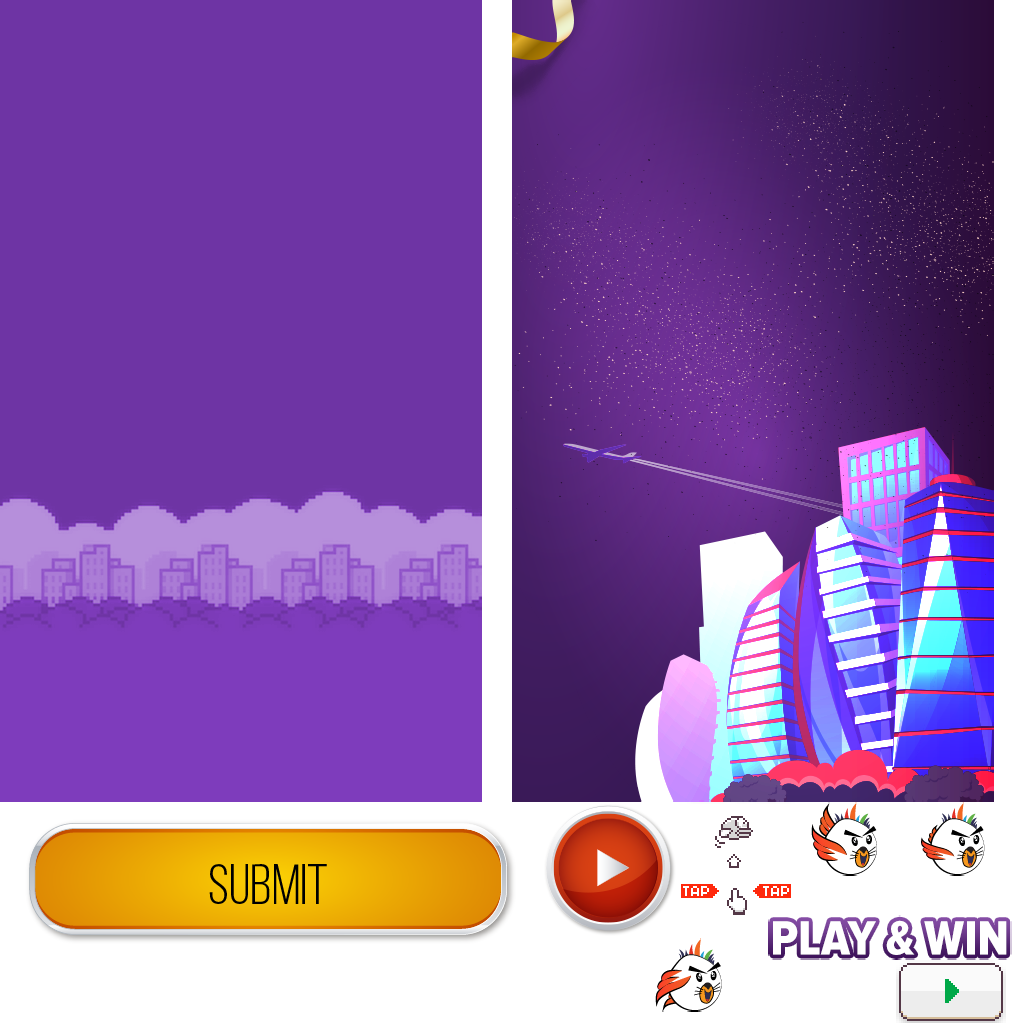
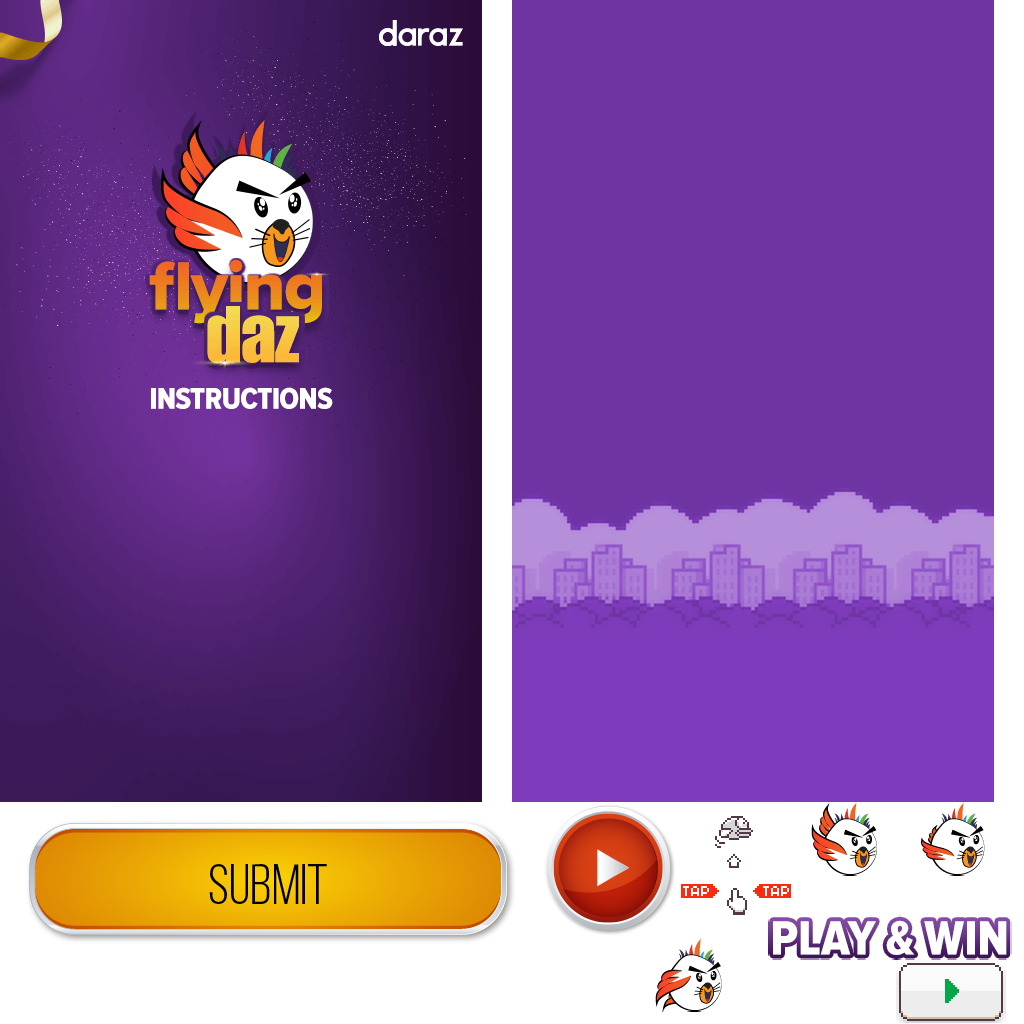
test final

diff --git a/flying-daz/data.js b/flying-daz/data.js
@@ -1,1 +1,1 @@
-{"project":["Flying Daz","Menu",[[0,false,true,true,true,true,true,true,true,false],[1,false,true,true,true,false,false,false,false,false],[3,true,false,false,false,false,false,false,false,false],[4,false,true,true,true,true,true,true,true,true],[5,false,true,true,true,true,true,true,true,false],[7,true,false,false,false,false,false,false,false,false],[8,true,false,false,false,false,false,false,false,false],[9,true,false,false,false,false,false,false,false,false],[10,false,true,true,true,false,false,false,false,false]],[["Sprite",0,false,[],0,0,null,[["Default",5,false,1,0,false,1393132005821332,[["images/shared-0-sheet1.png",584793,513,1,480,800,1,0.5,0.5,[],[-0.5,-0.5,0,-0.5,0.4979166666666667,-0.5,0.4979166666666667,0,0.4979166666666667,0.49875,0,0.49875,-0.5,0.49875,-0.5,0],0]]]],[],false,true,4964123340204649,[],null],["Sprite2",0,false,[],0,0,null,[["Default",5,false,1,0,false,5423385207864809,[["images/shared-0-sheet0.png",493578,897,961,108,61,1,0.5,0.508197,[],[-0.4444444,-0.40983630000000004,0,-0.4754101,0.44444399999999995,-0.40983630000000004,0.48148100000000005,-0.01639400000000002,0.453704,0.409836,0,0.47541,-0.4537037,0.409836,-0.4814815,-0.01639400000000002],0]]]],[],false,false,561258163338029,[],null],["Button2",1,false,[],0,0,null,null,[],false,false,2574843507174612,[],null],["Sprite3",0,false,[],0,0,null,[["Default",5,false,1,0,false,8356031828295757,[["images/shared-0-sheet0.png",493578,679,803,115,111,1,0.504348,0.504505,[],[-0.191305,-0.18018099999999998,-0.008696000000000037,-0.38738799999999995,0.017390999999999934,-0.009009999999999962,0.017390999999999934,-0.009009999999999962,0.37391299999999994,0.36936900000000006,-0.008696000000000037,0.495495,-0.38260900000000003,0.36936900000000006,-0.06956500000000004,-0.009009999999999962],0]]]],[],false,false,9533404973379886,[],null],["Sprite4",0,false,[],0,0,null,[["Default",5,false,1,0,false,6430424900520584,[["images/shared-0-sheet0.png",493578,1,1,480,800,1,0.5,0.500978,[],[-0.5,-0.500978,0,-0.500978,0.4979166666666667,-0.500978,0.4979166666666667,-0.0009780000000000344,0.4979166666666667,0.497772,0,0.497772,-0.5,0.497772,-0.5,-0.0009780000000000344],0]]]],[],false,false,576234191087211,[],null],["Sprite5",0,false,[],1,0,null,[["Default",10,false,1,0,false,5552198826423713,[["images/shared-0-sheet0.png",493578,796,803,103,72,1,0.5,0.5,[],[-0.21383512244897962,-0.3616071428571428,0.08928571428571452,-0.3511904761904762,0.2699575714285716,-0.04910714285714307,0.2728086530612246,0.27157738095238126,0.1195978979591843,0.48214252380952394,-0.08418367346938738,0.49627976190476186,-0.3568427959183674,0.11383895238095276,-0.346938775510204,-0.17485119047619024],0],["images/shared-0-sheet0.png",493578,901,803,103,72,1,0.5,0.5,[],[-0.16791675510204096,-0.19791666666666674,0.09948979591836726,-0.4107142857142857,0.25720246938775515,-0.2723214285714285,0.31362497959183666,0.141369047619048,0.25480197959183737,0.37797585714285675,0.04336734693877475,0.5,-0.19867953061224491,0.34821395238095243,-0.34183673469387754,-0.01860119047619041],0],["images/shared-0-sheet0.png",493578,641,939,103,72,1,0.5,0.5,[],[-0.12454940816326543,-0.3132440476190475,0.03826530612244905,-0.40327380952380953,0.2674065510204082,-0.1830357142857144,0.2753596734693883,0.30877976190476253,0.13235300000000083,0.4784222857142858,-0.19185902516346326,0.4107142857142859,-0.37484996938775506,0.1450896190476193,-0.2702581326530612,-0.07068452380952356],0]]]],[["Platform",2,1593079543931459]],false,false,8880592809369787,[],null],["Mouse",3,false,[],0,0,null,null,[],false,false,4336291366746725,[],null,[]],["Sprite6",0,false,[6617839752655299],0,0,null,[["Default",5,false,1,0,false,1423263038755727,[["images/shared-0-sheet2.png",116318,543,1,104,640,1,0.508772,0.501538,[],[-0.508772,-0.501538,0.491228,-0.501538,0.44509146153846146,0.49787275,-0.017544000000000004,0.49846199999999996,-0.4571103923076923,0.492842625],0]]]],[],false,false,7213654666255091,[],null],["Sprite7",0,false,[],0,0,null,[["Default",5,false,1,0,false,2610034895066063,[["images/shared-0-sheet2.png",116318,649,1,104,640,1,0.5,0.501538,[],[-0.47081045384615383,-0.501538,0.45879092307692304,-0.501538,0.5,0.49846199999999996,-0.5,0.49621424999999997],0]]]],[],false,false,6358373644877836,[],null],["TiledBackground",4,false,[],0,0,["images/tiledbackground-sheet0.png",4223,0,0,0,337,17],null,[],false,false,8862384049867816,[],null],["TiledBackground2",4,false,[],0,0,["images/tiledbackground2-sheet0.png",4223,0,0,0,337,17],null,[],false,false,2397778750218094,[],null],["TiledBackground3",4,false,[],0,0,["images/tiledbackground3-sheet0.png",192,0,0,0,56,28],null,[],false,false,8923451967422283,[],null],["TiledBackground4",4,false,[],0,0,["images/tiledbackground4-sheet0.png",430,0,0,0,41,19],null,[],false,false,2934423813765071,[],null],["Text",5,false,[],0,0,null,null,[],false,false,5606101963679141,[],null],["Sprite8",0,false,[],0,0,null,[["Default",5,false,1,0,false,7712839185583907,[["images/shared-0-sheet2.png",116318,257,769,250,250,1,0.5,0.5,[],[],0]]]],[],false,false,5867399459174119,[],null],["Sprite9",0,false,[],1,0,null,[["Default",5,false,1,0,false,632513710534152,[["images/shared-0-sheet0.png",493578,543,803,134,134,1,0.5,0.503311,[],[-0.36666699999999997,-0.344371,0,-0.49668847999999993,0.37222200000000005,-0.35099299999999994,0.488889,-0.006621999999999961,0.3337481492537311,0.3343999402985074,0.004664179104477584,0.44801426865671645,-0.349523328358209,0.305667328358209,-0.49444444,-0.006621999999999961],0]]]],[["DragDrop",6,559007665408358]],false,true,336497991114589,[],null],["Touch",7,false,[],0,0,null,null,[],false,false,812771115847554,[],null,[true]],["Browser",8,false,[],0,0,null,null,[],false,false,968786528415499,[],null,[]],["Sprite10",0,false,[],0,0,null,[["Animation 1",5,false,1,0,false,998012637433276,[["images/shared-0-sheet2.png",116318,755,513,256,256,1,0.5,0.5,[],[-0.03125,-0.03125,0,-0.046875,0.046875,-0.05078125,0.4296875,0,0.015625,0.015625,0,0.1328125,-0.14453125,0.140625,-0.4453125,0],0]]]],[],false,false,596976730625195,[],null],["AJAX",9,false,[],0,0,null,null,[],false,false,525835348000193,[],null,[]],["Sprite11",0,false,[],0,0,null,[["Animation 1",5,false,1,0,false,259953315795058,[["images/shared-0-sheet0.png",493578,513,1,480,800,1,0.5,0.5,[],[-0.5,-0.5,0,-0.5,0.49750000000000005,-0.5,0.49750000000000005,0,0.49750000000000005,0.498,0,0.498,-0.5,0.498,-0.5,0],0]]]],[],false,false,387558426248170,[],null],["NameInput",10,false,[],0,0,null,null,[],false,false,889300060393533,[],null],["EmailInput",10,false,[],0,0,null,null,[],false,false,800542948052933,[],null],["PhoneInput",10,false,[],0,0,null,null,[],false,false,139598997962273,[],null],["NameText",5,false,[],0,0,null,null,[],false,false,335254482292807,[],null],["EmailText",5,false,[],0,0,null,null,[],false,false,346951033053218,[],null],["Text2",5,false,[],0,0,null,null,[],false,false,646911176194777,[],null],["Sprite12",0,false,[],0,0,null,[["Animation 1",5,false,1,0,false,591142330811460,[["images/shared-0-sheet0.png",493578,1,803,540,158,1,0.5,0.5,[],[-0.4073182779369861,-0.34398155758915255,-0.006944444444444586,-0.34968354430379744,0.40504037360896816,-0.33736780097539587,0.4352220956719819,0.05537974683544311,0.3859058156639268,0.3355084905717818,-0.01892921146953408,0.32007157165385014,-0.4054701596574163,0.3288947339580254,-0.45370370370370366,-0.06329113924050628],0]]]],[],false,false,367115732379633,[],null],["Confirmation",5,false,[],0,0,null,null,[],false,false,968940184656449,[],null],["Sprite13",0,false,[],0,0,null,[["Animation 1",5,false,1,0,false,904992826225042,[["images/shared-0-sheet1.png",584793,1,803,540,158,1,0.5,0.5,[],[-0.40880451457374534,-0.36416139240506323,0,-0.375,0.3883478522901602,-0.37739319620253164,0.4394039009423626,0,0.4037776682007451,0.31787974683544307,-0.004629629629629595,0.3491297468354432,-0.3968469208853824,0.3343354430379749,-0.4535598838483454,0.04746835443038],0]]]],[],false,false,505255774339353,[],null],["Sprite14",0,false,[],0,0,null,[["Animation 1",5,false,1,0,false,405608823074264,[["images/shared-0-sheet2.png",116318,1,513,540,158,1,0.5,0.5,[],[-0.41439636752136755,-0.3904449272624221,-0.009259259259259245,-0.38964985200579383,0.40495904558404594,-0.37676333522262107,0.44444444444444464,0,0.3865295584045586,0.3394499023868003,-0.02083333333333337,0.3369623401977454,-0.4029113247863248,0.33641129794067637,-0.46456552706552706,-0.015822784810126556],0]]]],[],false,false,547625119326240,[],null],["Sprite15",0,false,[],0,0,null,[["Animation 1",5,false,1,0,false,518076908544604,[["images/shared-0-sheet1.png",584793,1,1,480,800,1,0.5,0.5,[],[-0.5,-0.5,0,-0.5,0.4979166666666667,-0.5,0.4979166666666667,0,0.4979166666666667,0.49875,0,0.49875,-0.5,0.49875,-0.5,0],0]]]],[],false,false,921497973235513,[],null],["Sprite16",0,false,[],0,0,null,[["Animation 1",5,false,1,0,false,781584850527997,[["images/shared-0-sheet0.png",493578,769,916,242,43,1,0.5,0.5,[],[-0.49173553719008267,-0.4534883720930233,0,-0.4069767441860465,0.487603305785124,-0.4534883720930233,0.49586776859504134,0,0.487603305785124,0.43023255813953487,0,0.4534883720930233,-0.49586776859504134,0.4534883720930233,-0.5,0],0]]]],[],false,true,642240991751007,[],null],["Instructions",5,false,[],0,0,null,null,[],false,true,807218672933255,[],null],["Display",5,false,[],0,0,null,null,[],false,false,855406720276929,[],null]],[],[["Menu",480,800,false,"Event sheet 1",813435304774142,[["Layer 0",0,4928235318697103,true,[255,255,255],false,1,1,1,false,false,1,0,0,[[[240,401,0,478,800,0,0,1,0.5,0.5,0,0,[]],0,0,[],[],[true,"Default",0,true]],[[244,667,0,134,134,0,0,1,0.5,0.503311,0,0,[]],15,11,[],[[0,true]],[true,"Default",0,true]],[[248,554,0,242,43,0,0,1,0.5,0.5,0,0,[]],32,2,[],[],[true,"Animation 1",0,true]],[[61,402,0,372,116,0,0,1,0,0,0,0,[]],33,14,[],[],["1. Make Daz jump by tapping on the screen.\n2. Fly through the pillars and get the highest score.\n3. Be the 1st scorer and win a Samsung 40inch TV.\n4. Be the 2nd scorer and win a Redmi Note 6.",false,"Arial",12,0,false,false,[1,1,1],0,1,0,true,0]]],[]]],[],[]],["Game",480,800,false,"Event sheet 2",7054034641972203,[["Layer 0",0,360173619558835,true,[255,255,255],false,1,1,1,false,false,1,0,0,[[[239.5,400,0,488,797,0,0,1,0.5,0.500978,0,0,[]],4,3,[],[],[true,"Default",0,true]],[[112,340,0,83.56229072527051,59.21386573416339,0,0,1,0.5,0.5,0,0,[]],5,4,[],[[0,1500,1500,650,1500,1000,false,0,true,true]],[true,"Default",0,true]],[[-91,765,0,639,32,0,0,1,0,0,0,0,[]],11,9,[],[],[true,0,0,0,1,1,0]],[[566.999938965,741.895385742,0,74,680,0,0,1,0.508772,0.501538,0,0,[]],7,6,[[0]],[],[true,"Default",0,true]],[[-107,1,0,727,17,0,0,1,0,0,0,0,[]],12,8,[],[],[true,0,0,0,1,1,0]],[[-59,10.750762939,0,73,477,0,0,1,0.5,0.501538,0,0,[]],8,7,[],[],[true,"Default",0,true]],[[25,41,0,52,66,0,0,1,0,0,0,0,[]],13,10,[],[],["0",false,"Arial",25.799999999999997,0,false,false,[1,1,0.8],0,0,0,true,0]]],[]]],[],[]],["Final",480,800,false,"Event sheet 3",620830751206250,[["Layer 0",0,395103375760716,true,[255,255,255],false,1,1,1,false,false,1,0,0,[[[240.5,399.5,0,488,801,0,0,1,0.5,0.5,0,0,[]],20,16,[],[],[true,"Animation 1",0,true]],[[157,122,0,257,32,0,0,1,0,0,0,0,[]],21,17,[],[],["","","",true,true,false,false,0,true,""]],[[157,178,0,257,32,0,0,1,0,0,0,0,[]],22,18,[],[],["","","",true,true,false,false,0,true,""]],[[157,232,0,257,32,0,0,1,0,0,0,0,[]],23,19,[],[],["","","",true,true,false,false,0,true,""]],[[74,127,0,61,30,0,0,1,0,0,0,0,[]],24,20,[],[],["NAME",false,"Arial",15,0,false,false,[1,1,1],0,1,0,true,0]],[[77,182,0,68,30,0,0,1,0,0,0,0,[]],25,21,[],[],["EMAIL",false,"Arial",15,0,false,false,[1,1,1],0,1,0,true,0]],[[66,236,0,75,30,0,0,1,0,0,0,0,[]],26,22,[],[],["PHONE",false,"Arial",15,0,false,false,[1,1,1],0,1,0,true,0]],[[259,628,0,213,57,0,0,1,0.5,0.5,0,0,[]],27,23,[],[],[false,"Animation 1",0,true]],[[105,324,0,282,83,0,0,1,0,0,0,0,[]],28,24,[],[],["Score has been Added!!\nThank you for your Participation!\nStay Tuned with Daraz!\n",false,"Arial",12,0,false,false,[1,1,1],1,1,0,false,0]],[[258,508,0,213,57,0,0,1,0.5,0.5,0,0,[]],29,25,[],[],[true,"Animation 1",0,true]],[[258,568,0,213,57,0,0,1,0.5,0.5,0,0,[]],30,26,[],[],[true,"Animation 1",0,true]],[[141,54,0,238,30,0,0,1,0,0,0,0,[]],34,28,[],[],["Submit Your Score",false,"Arial",18.7,0,false,false,[1,1,1],0,0,0,true,0]]],[]]],[],[]],["Splash",480,800,false,"Event sheet 4",334263116829157,[["Layer 0",0,426875695464246,true,[255,255,255],false,1,1,1,false,false,1,0,0,[[[241,400,0,480,800,0,0,1,0.5,0.5,0,0,[]],31,27,[],[],[true,"Animation 1",0,true]]],[]]],[],[]]],[["Event sheet 1",[[0,null,false,null,9443870342977488,[[16,11,null,1,false,false,false,7831443225202787,null,[[4,15]]]],[[-1,12,null,7052091377467977,null,[[6,"Game"]]],[-1,13,null,199173049232889,null,[[11,"score"],[7,[3,[1,1]]]]]]]]],["Event sheet 2",[[1,"score",0,-1,false,false,5445505578776546,false],[1,"SECONDSPERTICK",0,1,false,true,4168613484299564,false],[1,"s",1,"",false,false,103965146235660,false],[1,"web_app_url",1,"https://script.google.com/macros/s/AKfycbz928psWAZfOM-7AKDqhtY8HTPeIC8d6s7RaVA116KtJP3ytqF1/exec",false,false,739007772900223,false],[0,null,false,null,9738095022888128,[[16,14,null,1,false,false,false,8826641917803341,null]],[[5,15,"Platform",2840984979323257,null,[[0,[5,[20,5,16,false,null],[1,850]]]]],[5,17,null,2948151137742414,null,[[3,1]]],[5,18,null,5093259802344395,null,[[0,[1,320]]]]]],[0,null,false,null,1202615859203067,[[5,19,null,0,false,false,true,6241361961390549,null,[[4,7]]]],[[-1,12,null,405722869933906,null,[[6,"Final"]]]]],[0,null,false,null,1243265082953658,[[5,19,null,0,false,false,true,6680394977637079,null,[[4,8]]]],[[-1,12,null,581731913117290,null,[[6,"Final"]]]]],[0,null,false,null,9391386778907876,[[5,19,null,0,false,false,true,2125266085438146,null,[[4,11]]]],[[-1,12,null,283323623451258,null,[[6,"Final"]]]]],[0,null,false,null,8252958596625004,[[5,20,null,0,false,false,false,1346436896633493,null]],[[-1,12,null,198607994406590,null,[[6,"Final"]]]]],[0,null,false,null,9154889208580540,[[11,21,null,0,false,false,false,4741263242219376,null,[[8,3],[0,[3,[1,100]]]]]],[[11,22,null,1279449584451248,null,[[0,[1,0]]]]]],[0,null,false,null,8225295766461671,[[5,19,null,0,false,false,true,1658206846094863,null,[[4,12]]]],[[-1,12,null,152483321620022,null,[[6,"Final"]]]]],[0,null,false,null,6712032144356998,[[-1,23,null,0,false,false,false,1281422020036334,null]],[[12,22,null,8955708555932225,null,[[0,[5,[20,12,24,false,null],[1,5]]]]],[11,22,null,6515409483825707,null,[[0,[5,[20,11,24,false,null],[1,5]]]]],[8,25,null,3067140511304611,null,[[0,[5,[20,8,26,false,null],[1,5]]]]],[7,25,null,644147347656629,null,[[0,[5,[20,7,26,false,null],[1,5]]]]]]],[0,null,false,null,9900658006043172,[[12,21,null,0,false,false,false,9483081392905172,null,[[8,3],[0,[3,[1,100]]]]]],[[12,22,null,3468501258433082,null,[[0,[1,0]]]]]],[0,null,false,null,4487159994830935,[[-1,27,null,0,false,false,false,264969624309235,null,[[0,[23,"SECONDSPERTICK"]]]]],[[-1,28,null,336797798963120,null,[[4,8],[5,[1,0]],[0,[1,500]],[0,[19,29,[[1,50],[3,[1,150]]]]]]],[-1,28,null,446576431006347,null,[[4,7],[5,[1,0]],[0,[1,500]],[0,[4,[20,8,16,false,null],[1,750]]]]],[7,30,null,8620893255087995,null,[[10,0],[3,0]]]]],[0,null,false,null,3501621113364987,[[5,31,null,0,false,false,false,973402086689707,null,[[0,[1,1]],[0,[1,360]]]]],[[5,18,null,1321872969593035,null,[[0,[4,[20,5,32,false,null],[1,1]]]]]]],[0,null,false,null,2219961052850856,[[-1,33,null,1,false,false,false,9300582250180858,null]],[[13,34,null,2180209574785663,null,[[7,[1,0]]]]]],[0,null,false,null,3034903989539794,[[7,20,null,0,false,false,false,8329733398121777,null]],[[7,35,null,9126346962036340,null]]],[0,null,false,null,8210638893697663,[[7,36,null,1,false,false,false,5113379428055256,null]],[[-1,37,null,5716393016293131,null,[[11,"score"],[7,[1,1]]]],[13,34,null,8822476034886771,null,[[7,[23,"score"]]]],[7,30,null,2683831327960307,null,[[10,0],[3,1]]]]],[0,null,true,null,292316990547488,[[5,19,null,0,false,false,true,309956573817900,null,[[4,7]]],[5,19,null,0,false,false,true,906194607185260,null,[[4,8]]],[5,19,null,0,false,false,true,544866959185864,null,[[4,11]]],[5,19,null,0,false,false,true,484829367294420,null,[[4,12]]],[5,20,null,0,false,false,false,309688790753529,null]],[]]]],["Event sheet 3",[[0,null,false,null,953514335274900,[[16,11,null,1,false,false,false,675258870164215,null,[[4,27]]]],[[-1,13,null,654477517929274,null,[[11,"s"],[7,[10,[10,[23,"web_app_url"],[2,"?name="]],[19,38,[[20,21,39,true,null]]]]]]],[-1,13,null,376145357999251,null,[[11,"s"],[7,[10,[10,[23,"s"],[2,"&score="]],[23,"score"]]]]],[-1,13,null,996337523594330,null,[[11,"s"],[7,[10,[10,[23,"s"],[2,"&email="]],[20,22,39,true,null]]]]],[-1,13,null,411130622235495,null,[[11,"s"],[7,[10,[10,[23,"s"],[2,"&phone="]],[20,23,39,true,null]]]]],[19,40,null,103897013309333,null,[[1,[2,"senddata"]],[1,[23,"s"]],[1,[2,""]],[1,[2,"GET"]]]],[28,41,null,401195694014010,null,[[3,1]]],[27,35,null,866812808831417,null]]],[0,null,false,null,230036816865590,[[16,11,null,1,false,false,false,742385287071374,null,[[4,30]]]],[[17,42,null,504254829916779,null,[[1,[2,"https://www.daraz.com.bd/"]],[3,0]]]]],[0,null,false,null,999045428445811,[[16,11,null,1,false,false,false,752436486698801,null,[[4,29]]]],[[-1,12,null,306198402426133,null,[[6,"Game"]]],[-1,13,null,348969924502970,null,[[11,"score"],[7,[3,[1,1]]]]]]],[0,null,false,null,112599420946176,[[23,43,null,1,false,false,false,860634210077745,null]],[[27,44,null,573393313618559,null,[[3,1]]]]]]],["Event sheet 4",[[0,null,false,null,301873428723936,[[-1,33,null,1,false,false,false,921391437527137,null]],[[-1,45,null,300903338090120,null,[[0,[1,0.5]]]],[-1,12,null,660406916845328,null,[[6,"Menu"]]]]]]]],[],"media/",false,480,800,4,true,true,true,"1.0.0.0",true,true,1,0,29,false,true,1,true,false,[],"icons/",[],true,"u8se8qxh4gob","fonts/",[],"high-performance"]}
+{"project":["Flying Daz","Menu",[[0,false,true,true,true,true,true,true,true,false],[1,false,true,true,true,false,false,false,false,false],[3,true,false,false,false,false,false,false,false,false],[4,false,true,true,true,true,true,true,true,true],[5,false,true,true,true,true,true,true,true,false],[7,true,false,false,false,false,false,false,false,false],[8,true,false,false,false,false,false,false,false,false],[9,true,false,false,false,false,false,false,false,false],[10,false,true,true,true,false,false,false,false,false]],[["Sprite",0,false,[],0,0,null,[["Default",5,false,1,0,false,1393132005821332,[["images/shared-0-sheet0.png",320749,1,1,480,800,1,0.5,0.5,[],[-0.5,-0.5,0,-0.5,0.4979166666666667,-0.5,0.4979166666666667,0,0.4979166666666667,0.49875,0,0.49875,-0.5,0.49875,-0.5,0],0]]]],[],false,true,4964123340204649,[],null],["Sprite2",0,false,[],0,0,null,[["Default",5,false,1,0,false,5423385207864809,[["images/shared-0-sheet0.png",320749,897,961,108,61,1,0.5,0.508197,[],[-0.4444444,-0.40983630000000004,0,-0.4754101,0.44444399999999995,-0.40983630000000004,0.48148100000000005,-0.01639400000000002,0.453704,0.409836,0,0.47541,-0.4537037,0.409836,-0.4814815,-0.01639400000000002],0]]]],[],false,false,561258163338029,[],null],["Button2",1,false,[],0,0,null,null,[],false,false,2574843507174612,[],null],["Sprite3",0,false,[],0,0,null,[["Default",5,false,1,0,false,8356031828295757,[["images/shared-0-sheet0.png",320749,679,803,115,111,1,0.504348,0.504505,[],[-0.191305,-0.18018099999999998,-0.008696000000000037,-0.38738799999999995,0.017390999999999934,-0.009009999999999962,0.017390999999999934,-0.009009999999999962,0.37391299999999994,0.36936900000000006,-0.008696000000000037,0.495495,-0.38260900000000003,0.36936900000000006,-0.06956500000000004,-0.009009999999999962],0]]]],[],false,false,9533404973379886,[],null],["Sprite4",0,false,[],0,0,null,[["Default",5,false,1,0,false,6430424900520584,[["images/shared-0-sheet0.png",320749,513,1,480,800,1,0.5,0.500978,[],[-0.5,-0.500978,0,-0.500978,0.4979166666666667,-0.500978,0.4979166666666667,-0.0009780000000000344,0.4979166666666667,0.497772,0,0.497772,-0.5,0.497772,-0.5,-0.0009780000000000344],0]]]],[],false,false,576234191087211,[],null],["Sprite5",0,false,[],1,0,null,[["Default",10,false,1,0,false,5552198826423713,[["images/shared-0-sheet0.png",320749,796,803,103,72,1,0.5,0.5,[],[-0.21383512244897962,-0.3616071428571428,0.08928571428571452,-0.3511904761904762,0.2699575714285716,-0.04910714285714307,0.2728086530612246,0.27157738095238126,0.1195978979591843,0.48214252380952394,-0.08418367346938738,0.49627976190476186,-0.3568427959183674,0.11383895238095276,-0.346938775510204,-0.17485119047619024],0],["images/shared-0-sheet0.png",320749,901,803,103,72,1,0.5,0.5,[],[-0.16791675510204096,-0.19791666666666674,0.09948979591836726,-0.4107142857142857,0.25720246938775515,-0.2723214285714285,0.31362497959183666,0.141369047619048,0.25480197959183737,0.37797585714285675,0.04336734693877475,0.5,-0.19867953061224491,0.34821395238095243,-0.34183673469387754,-0.01860119047619041],0],["images/shared-0-sheet0.png",320749,641,939,103,72,1,0.5,0.5,[],[-0.12454940816326543,-0.3132440476190475,0.03826530612244905,-0.40327380952380953,0.2674065510204082,-0.1830357142857144,0.2753596734693883,0.30877976190476253,0.13235300000000083,0.4784222857142858,-0.19185902516346326,0.4107142857142859,-0.37484996938775506,0.1450896190476193,-0.2702581326530612,-0.07068452380952356],0]]]],[["Platform",2,1593079543931459]],false,false,8880592809369787,[],null],["Mouse",3,false,[],0,0,null,null,[],false,false,4336291366746725,[],null,[]],["Sprite6",0,false,[6617839752655299],0,0,null,[["Default",5,false,1,0,false,1423263038755727,[["images/shared-0-sheet2.png",116318,543,1,104,640,1,0.508772,0.501538,[],[-0.508772,-0.501538,0.491228,-0.501538,0.44509146153846146,0.49787275,-0.017544000000000004,0.49846199999999996,-0.4571103923076923,0.492842625],0]]]],[],false,false,7213654666255091,[],null],["Sprite7",0,false,[],0,0,null,[["Default",5,false,1,0,false,2610034895066063,[["images/shared-0-sheet2.png",116318,649,1,104,640,1,0.5,0.501538,[],[-0.47081045384615383,-0.501538,0.45879092307692304,-0.501538,0.5,0.49846199999999996,-0.5,0.49621424999999997],0]]]],[],false,false,6358373644877836,[],null],["TiledBackground",4,false,[],0,0,["images/tiledbackground-sheet0.png",4223,0,0,0,337,17],null,[],false,false,8862384049867816,[],null],["TiledBackground2",4,false,[],0,0,["images/tiledbackground2-sheet0.png",4223,0,0,0,337,17],null,[],false,false,2397778750218094,[],null],["TiledBackground3",4,false,[],0,0,["images/tiledbackground3-sheet0.png",192,0,0,0,56,28],null,[],false,false,8923451967422283,[],null],["TiledBackground4",4,false,[],0,0,["images/tiledbackground4-sheet0.png",430,0,0,0,41,19],null,[],false,false,2934423813765071,[],null],["Text",5,false,[],0,0,null,null,[],false,false,5606101963679141,[],null],["Sprite8",0,false,[],0,0,null,[["Default",5,false,1,0,false,7712839185583907,[["images/shared-0-sheet2.png",116318,257,769,250,250,1,0.5,0.5,[],[],0]]]],[],false,false,5867399459174119,[],null],["Sprite9",0,false,[],1,0,null,[["Default",5,false,1,0,false,632513710534152,[["images/shared-0-sheet0.png",320749,543,803,134,134,1,0.5,0.503311,[],[-0.36666699999999997,-0.344371,0,-0.49668847999999993,0.37222200000000005,-0.35099299999999994,0.488889,-0.006621999999999961,0.3337481492537311,0.3343999402985074,0.004664179104477584,0.44801426865671645,-0.349523328358209,0.305667328358209,-0.49444444,-0.006621999999999961],0]]]],[["DragDrop",6,559007665408358]],false,true,336497991114589,[],null],["Touch",7,false,[],0,0,null,null,[],false,false,812771115847554,[],null,[true]],["Browser",8,false,[],0,0,null,null,[],false,false,968786528415499,[],null,[]],["Sprite10",0,false,[],0,0,null,[["Animation 1",5,false,1,0,false,998012637433276,[["images/shared-0-sheet2.png",116318,755,513,256,256,1,0.5,0.5,[],[-0.03125,-0.03125,0,-0.046875,0.046875,-0.05078125,0.4296875,0,0.015625,0.015625,0,0.1328125,-0.14453125,0.140625,-0.4453125,0],0]]]],[],false,false,596976730625195,[],null],["AJAX",9,false,[],0,0,null,null,[],false,false,525835348000193,[],null,[]],["Sprite11",0,false,[],0,0,null,[["Animation 1",5,false,1,0,false,259953315795058,[["images/shared-0-sheet1.png",498009,1,1,480,800,1,0.5,0.5,[],[-0.5,-0.5,0,-0.5,0.49750000000000005,-0.5,0.49750000000000005,0,0.49750000000000005,0.498,0,0.498,-0.5,0.498,-0.5,0],0]]]],[],false,false,387558426248170,[],null],["NameInput",10,false,[],0,0,null,null,[],false,false,889300060393533,[],null],["EmailInput",10,false,[],0,0,null,null,[],false,false,800542948052933,[],null],["PhoneInput",10,false,[],0,0,null,null,[],false,false,139598997962273,[],null],["NameText",5,false,[],0,0,null,null,[],false,false,335254482292807,[],null],["EmailText",5,false,[],0,0,null,null,[],false,false,346951033053218,[],null],["Text2",5,false,[],0,0,null,null,[],false,false,646911176194777,[],null],["Sprite12",0,false,[],0,0,null,[["Animation 1",5,false,1,0,false,591142330811460,[["images/shared-0-sheet0.png",320749,1,803,540,158,1,0.5,0.5,[],[-0.4073182779369861,-0.34398155758915255,-0.006944444444444586,-0.34968354430379744,0.40504037360896816,-0.33736780097539587,0.4352220956719819,0.05537974683544311,0.3859058156639268,0.3355084905717818,-0.01892921146953408,0.32007157165385014,-0.4054701596574163,0.3288947339580254,-0.45370370370370366,-0.06329113924050628],0]]]],[],false,false,367115732379633,[],null],["Confirmation",5,false,[],0,0,null,null,[],false,false,968940184656449,[],null],["Sprite13",0,false,[],0,0,null,[["Animation 1",5,false,1,0,false,904992826225042,[["images/shared-0-sheet1.png",498009,1,803,540,158,1,0.5,0.5,[],[-0.40880451457374534,-0.36416139240506323,0,-0.375,0.3883478522901602,-0.37739319620253164,0.4394039009423626,0,0.4037776682007451,0.31787974683544307,-0.004629629629629595,0.3491297468354432,-0.3968469208853824,0.3343354430379749,-0.4535598838483454,0.04746835443038],0]]]],[],false,false,505255774339353,[],null],["Sprite14",0,false,[],0,0,null,[["Animation 1",5,false,1,0,false,405608823074264,[["images/shared-0-sheet2.png",116318,1,513,540,158,1,0.5,0.5,[],[-0.41439636752136755,-0.3904449272624221,-0.009259259259259245,-0.38964985200579383,0.40495904558404594,-0.37676333522262107,0.44444444444444464,0,0.3865295584045586,0.3394499023868003,-0.02083333333333337,0.3369623401977454,-0.4029113247863248,0.33641129794067637,-0.46456552706552706,-0.015822784810126556],0]]]],[],false,false,547625119326240,[],null],["Sprite15",0,false,[],0,0,null,[["Animation 1",5,false,1,0,false,518076908544604,[["images/shared-0-sheet1.png",498009,513,1,480,800,1,0.5,0.5,[],[-0.5,-0.5,0,-0.5,0.4979166666666667,-0.5,0.4979166666666667,0,0.4979166666666667,0.49875,0,0.49875,-0.5,0.49875,-0.5,0],0]]]],[],false,false,921497973235513,[],null],["Sprite16",0,false,[],0,0,null,[["Animation 1",5,false,1,0,false,781584850527997,[["images/shared-0-sheet0.png",320749,769,916,242,43,1,0.5,0.5,[],[-0.49173553719008267,-0.4534883720930233,0,-0.4069767441860465,0.487603305785124,-0.4534883720930233,0.49586776859504134,0,0.487603305785124,0.43023255813953487,0,0.4534883720930233,-0.49586776859504134,0.4534883720930233,-0.5,0],0]]]],[],false,true,642240991751007,[],null],["Instructions",5,false,[],0,0,null,null,[],false,true,807218672933255,[],null],["Display",5,false,[],0,0,null,null,[],false,false,855406720276929,[],null],["Button",1,false,[],0,0,null,null,[],false,false,792601355615941,[],null]],[],[["Menu",480,800,false,"Event sheet 1",813435304774142,[["Layer 0",0,4928235318697103,true,[255,255,255],false,1,1,1,false,false,1,0,0,[[[240,401,0,478,800,0,0,1,0.5,0.5,0,0,[]],0,0,[],[],[true,"Default",0,true]],[[244,675,0,134,134,0,0,1,0.5,0.503311,0,0,[]],15,11,[],[[0,true]],[true,"Default",0,true]],[[245,575,0,242,43,0,0,1,0.5,0.5,0,0,[]],32,2,[],[],[true,"Animation 1",0,true]],[[68,409,0,372,149,0,0,1,0,0,0,0,[]],33,14,[],[],["1. Make Daz jump by tapping on the screen.\n2. Fly through the pillars and get the highest score.\n3. Be the 1st scorer and win a Samsung 40inch TV.\n4. Be the 2nd scorer and win a Redmi Note 6.\n5. Play the game from 7th-13th Jan.\n6. Top scorers to be shown below everyday.\n7. Winners to be announced on 15th Jan.",false,"Arial",11.5,0,false,false,[1,1,1],0,1,0,true,0]]],[]]],[],[]],["Game",480,800,false,"Event sheet 2",7054034641972203,[["Layer 0",0,360173619558835,true,[255,255,255],false,1,1,1,false,false,1,0,0,[[[239.5,400,0,488,797,0,0,1,0.5,0.500978,0,0,[]],4,3,[],[],[true,"Default",0,true]],[[112,340,0,83.56229072527051,59.21386573416339,0,0,1,0.5,0.5,0,0,[]],5,4,[],[[0,1500,1500,650,1500,1000,false,0,true,true]],[true,"Default",0,true]],[[-91,765,0,639,32,0,0,1,0,0,0,0,[]],11,9,[],[],[true,0,0,0,1,1,0]],[[566.999938965,741.895385742,0,74,680,0,0,1,0.508772,0.501538,0,0,[]],7,6,[[0]],[],[true,"Default",0,true]],[[-107,1,0,727,17,0,0,1,0,0,0,0,[]],12,8,[],[],[true,0,0,0,1,1,0]],[[-59,10.750762939,0,73,477,0,0,1,0.5,0.501538,0,0,[]],8,7,[],[],[true,"Default",0,true]]],[]],["Layer 1",1,824997212790849,true,[255,255,255],true,1,1,1,false,false,1,0,0,[[[25,41,0,180,50,0,0,1,0,0,0,0,[]],13,10,[],[],["0",false,"Arial",25.799999999999997,0,false,false,[1,1,0.8],0,0,0,true,0]]],[]]],[],[]],["Final",480,800,false,"Event sheet 3",620830751206250,[["Layer 0",0,395103375760716,true,[255,255,255],false,1,1,1,false,false,1,0,0,[[[240.5,399.5,0,488,801,0,0,1,0.5,0.5,0,0,[]],20,16,[],[],[true,"Animation 1",0,true]],[[157,122,0,257,32,0,0,1,0,0,0,0,[]],21,17,[],[],["","","",true,true,false,false,0,true,""]],[[157,178,0,257,32,0,0,1,0,0,0,0,[]],22,18,[],[],["","","",true,true,false,false,0,true,""]],[[157,232,0,257,32,0,0,1,0,0,0,0,[]],23,19,[],[],["","","",true,true,false,false,0,true,""]],[[74,127,0,61,30,0,0,1,0,0,0,0,[]],24,20,[],[],["NAME",false,"Arial",15,0,false,false,[1,1,1],0,1,0,true,0]],[[77,182,0,68,30,0,0,1,0,0,0,0,[]],25,21,[],[],["EMAIL",false,"Arial",15,0,false,false,[1,1,1],0,1,0,true,0]],[[66,236,0,75,30,0,0,1,0,0,0,0,[]],26,22,[],[],["PHONE",false,"Arial",15,0,false,false,[1,1,1],0,1,0,true,0]],[[277,874,0,213,57,0,0,1,0.5,0.5,0,0,[]],27,23,[],[],[false,"Animation 1",0,true]],[[105,324,0,282,83,0,0,1,0,0,0,0,[]],28,24,[],[],["Score has been Added!!\nThank you for your Participation!\nStay Tuned with Daraz!\n",false,"Arial",12,0,false,false,[1,1,1],1,1,0,false,0]],[[137,501,0,213,57,0,0,1,0.5,0.5,0,0,[]],29,25,[],[],[true,"Animation 1",0,true]],[[370,501,0,213,57,0,0,1,0.5,0.5,0,0,[]],30,26,[],[],[true,"Animation 1",0,true]],[[96,35,0,314,60,0,0,1,0,0,0,0,[]],34,28,[],[],["Your score has been logged!\nPlease submit your details.",false,"Arial",18,0,false,false,[1,1,1],1,0,0,true,0]]],[]]],[],[]],["Splash",480,800,false,"Event sheet 4",334263116829157,[["Layer 0",0,426875695464246,true,[255,255,255],false,1,1,1,false,false,1,0,0,[[[241,400,0,480,800,0,0,1,0.5,0.5,0,0,[]],31,27,[],[],[true,"Animation 1",0,true]]],[]]],[],[]]],[["Event sheet 1",[[0,null,false,null,9443870342977488,[[16,11,null,1,false,false,false,7831443225202787,null,[[4,15]]]],[[-1,12,null,7052091377467977,null,[[6,"Game"]]],[-1,13,null,199173049232889,null,[[11,"score"],[7,[3,[1,1]]]]]]]]],["Event sheet 2",[[1,"score",0,-1,false,false,5445505578776546,false],[1,"SECONDSPERTICK",0,1,false,true,4168613484299564,false],[1,"s",1,"",false,false,103965146235660,false],[1,"web_app_url",1,"https://script.google.com/macros/s/AKfycbz928psWAZfOM-7AKDqhtY8HTPeIC8d6s7RaVA116KtJP3ytqF1/exec",false,false,739007772900223,false],[0,null,false,null,9738095022888128,[[16,14,null,1,false,false,false,8826641917803341,null]],[[5,15,"Platform",2840984979323257,null,[[0,[5,[20,5,16,false,null],[1,850]]]]],[5,17,null,2948151137742414,null,[[3,1]]],[5,18,null,5093259802344395,null,[[0,[1,320]]]]]],[0,null,false,null,1202615859203067,[[5,19,null,0,false,false,true,6241361961390549,null,[[4,7]]]],[[-1,12,null,405722869933906,null,[[6,"Final"]]]]],[0,null,false,null,1243265082953658,[[5,19,null,0,false,false,true,6680394977637079,null,[[4,8]]]],[[-1,12,null,581731913117290,null,[[6,"Final"]]]]],[0,null,false,null,9391386778907876,[[5,19,null,0,false,false,true,2125266085438146,null,[[4,11]]]],[[-1,12,null,283323623451258,null,[[6,"Final"]]]]],[0,null,false,null,8252958596625004,[[5,20,null,0,false,false,false,1346436896633493,null]],[[-1,12,null,198607994406590,null,[[6,"Final"]]]]],[0,null,false,null,9154889208580540,[[11,21,null,0,false,false,false,4741263242219376,null,[[8,3],[0,[3,[1,100]]]]]],[[11,22,null,1279449584451248,null,[[0,[1,0]]]]]],[0,null,false,null,8225295766461671,[[5,19,null,0,false,false,true,1658206846094863,null,[[4,12]]]],[[-1,12,null,152483321620022,null,[[6,"Final"]]]]],[0,null,false,null,6712032144356998,[[-1,23,null,0,false,false,false,1281422020036334,null]],[[12,22,null,8955708555932225,null,[[0,[5,[20,12,24,false,null],[1,5]]]]],[11,22,null,6515409483825707,null,[[0,[5,[20,11,24,false,null],[1,5]]]]],[8,25,null,3067140511304611,null,[[0,[5,[20,8,26,false,null],[1,5]]]]],[7,25,null,644147347656629,null,[[0,[5,[20,7,26,false,null],[1,5]]]]]]],[0,null,false,null,9900658006043172,[[12,21,null,0,false,false,false,9483081392905172,null,[[8,3],[0,[3,[1,100]]]]]],[[12,22,null,3468501258433082,null,[[0,[1,0]]]]]],[0,null,false,null,4487159994830935,[[-1,27,null,0,false,false,false,264969624309235,null,[[0,[23,"SECONDSPERTICK"]]]]],[[-1,28,null,336797798963120,null,[[4,8],[5,[1,0]],[0,[1,500]],[0,[19,29,[[1,50],[3,[1,150]]]]]]],[-1,28,null,446576431006347,null,[[4,7],[5,[1,0]],[0,[1,500]],[0,[4,[20,8,16,false,null],[1,750]]]]],[7,30,null,8620893255087995,null,[[10,0],[3,0]]]]],[0,null,false,null,3501621113364987,[[5,31,null,0,false,false,false,973402086689707,null,[[0,[1,1]],[0,[1,360]]]]],[[5,18,null,1321872969593035,null,[[0,[4,[20,5,32,false,null],[1,1]]]]]]],[0,null,false,null,2219961052850856,[[-1,33,null,1,false,false,false,9300582250180858,null]],[[13,34,null,2180209574785663,null,[[7,[1,0]]]]]],[0,null,false,null,3034903989539794,[[7,20,null,0,false,false,false,8329733398121777,null]],[[7,35,null,9126346962036340,null]]],[0,null,false,null,8210638893697663,[[7,36,null,1,false,false,false,5113379428055256,null]],[[-1,37,null,5716393016293131,null,[[11,"score"],[7,[1,1]]]],[13,34,null,8822476034886771,null,[[7,[23,"score"]]]],[7,30,null,2683831327960307,null,[[10,0],[3,1]]]]],[0,null,true,null,292316990547488,[[5,19,null,0,false,false,true,309956573817900,null,[[4,7]]],[5,19,null,0,false,false,true,906194607185260,null,[[4,8]]],[5,19,null,0,false,false,true,544866959185864,null,[[4,11]]],[5,19,null,0,false,false,true,484829367294420,null,[[4,12]]],[5,20,null,0,false,false,false,309688790753529,null]],[]]]],["Event sheet 3",[[0,null,false,null,953514335274900,[[16,11,null,1,false,false,false,675258870164215,null,[[4,27]]]],[[-1,13,null,654477517929274,null,[[11,"s"],[7,[10,[10,[23,"web_app_url"],[2,"?name="]],[19,38,[[20,21,39,true,null]]]]]]],[-1,13,null,376145357999251,null,[[11,"s"],[7,[10,[10,[23,"s"],[2,"&score="]],[23,"score"]]]]],[-1,13,null,996337523594330,null,[[11,"s"],[7,[10,[10,[23,"s"],[2,"&email="]],[20,22,39,true,null]]]]],[-1,13,null,411130622235495,null,[[11,"s"],[7,[10,[10,[23,"s"],[2,"&phone="]],[20,23,39,true,null]]]]],[19,40,null,103897013309333,null,[[1,[2,"senddata"]],[1,[23,"s"]],[1,[2,""]],[1,[2,"GET"]]]],[28,41,null,401195694014010,null,[[3,1]]],[27,35,null,866812808831417,null]]],[0,null,false,null,230036816865590,[[16,11,null,1,false,false,false,742385287071374,null,[[4,30]]]],[[17,42,null,754398245008242,null,[[1,[2,"https://www.daraz.com.bd/wow/i/bd/landingpage/exciting-offers-daily?hybrid=1"]],[3,0]]]]],[0,null,false,null,999045428445811,[[16,11,null,1,false,false,false,752436486698801,null,[[4,29]]]],[[-1,12,null,306198402426133,null,[[6,"Game"]]],[-1,13,null,348969924502970,null,[[11,"score"],[7,[3,[1,1]]]]]]],[0,null,false,null,112599420946176,[[23,43,null,1,false,false,false,860634210077745,null]],[[27,44,null,573393313618559,null,[[3,1]]],[27,45,null,956400478037635,null,[[0,[1,254]],[0,[1,598]]]]]]]],["Event sheet 4",[[0,null,false,null,301873428723936,[[-1,33,null,1,false,false,false,921391437527137,null]],[[-1,46,null,300903338090120,null,[[0,[1,0.5]]]],[-1,12,null,660406916845328,null,[[6,"Menu"]]]]]]]],[],"media/",false,480,800,4,true,true,true,"1.0.0.0",true,true,1,0,29,false,true,1,true,false,[],"icons/",[],true,"u8se8qxh4gob","fonts/",[],"high-performance"]}

diff --git a/flying-daz/offline.js b/flying-daz/offline.js
@@ -1,1 +1,1 @@
-{"version":1546768788926,"fileList":["c2runtime.js","data.js","start.js","style.css","offlineClient.js","images/shared-0-sheet0.png","images/shared-0-sheet1.png","images/shared-0-sheet2.png","images/tiledbackground-sheet0.png","images/tiledbackground2-sheet0.png","images/tiledbackground3-sheet0.png","images/tiledbackground4-sheet0.png","icons/icon-16.png","icons/icon-32.png","icons/icon-114.png","icons/icon-128.png","icons/icon-256.png","icons/loading-logo.png","register-sw.js"]}
+{"version":1546842407874,"fileList":["c2runtime.js","data.js","start.js","style.css","offlineClient.js","images/shared-0-sheet0.png","images/shared-0-sheet1.png","images/shared-0-sheet2.png","images/tiledbackground-sheet0.png","images/tiledbackground2-sheet0.png","images/tiledbackground3-sheet0.png","images/tiledbackground4-sheet0.png","icons/icon-16.png","icons/icon-32.png","icons/icon-114.png","icons/icon-128.png","icons/icon-256.png","icons/loading-logo.png","register-sw.js"]}

diff --git a/flying-daz/c2runtime.js b/flying-daz/c2runtime.js
@@ -30580,6 +30580,7 @@ cr.getObjectRefTable = function () {
 		cr.plugins_.Browser.prototype.acts.GoToURL,
 		cr.plugins_.TextBox.prototype.cnds.OnTextChanged,
 		cr.plugins_.Sprite.prototype.acts.SetVisible,
+		cr.plugins_.Sprite.prototype.acts.SetPos,
 		cr.system_object.prototype.acts.Wait
 	];
 };
